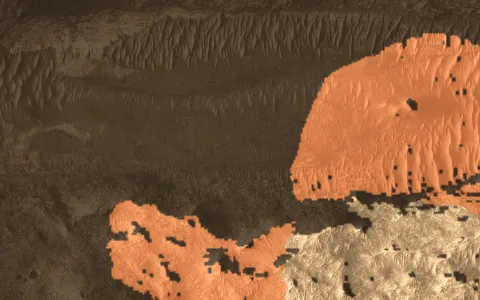
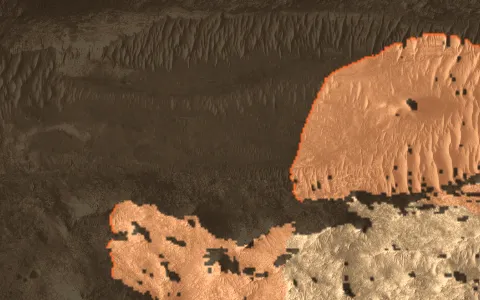
fix(map): say when the shelter is beyond the radiation window, and add the return zone QA screenshots

diff --git a/src/zone/zoneStatus.test.js b/src/zone/zoneStatus.test.js
@@ -1,0 +1,36 @@
+import { afterEach, describe, expect, it } from 'vitest';
+import { setLanguage } from '../i18n/index.js';
+import { zoneStatus } from './zoneStatus.js';
+
+afterEach(() => setLanguage('en'));
+
+const zone = (over = {}) => ({
+  kind: 'plan', events: [], cols: 3, rows: 1, x0: 0, z0: 0, dx: 4, dz: 4, from: { x: 0, z: 0 }, homeSec: new Float32Array([60, 0, 0]),
+  inputs: { o2G: 771, o2UsableG: 771, reserveSec: 1800, evaLimitSec: 1530, elapsedSec: 0, shelterWithinSec: null },
+  stats: { limit: 'eva', reachM: 613 },
+  budget: { availableSec: 1800, reserveSec: 270 },
+  ...over,
+});
+
+describe('zoneStatus', () => {
+  it('names the plan that bounds the zone before the EVA', () => {
+    expect(zoneStatus(zone())).toEqual({
+      head: 'Your plan: 30 min, 15 % time reserve · 30 min O2 reserve · 100 % O2',
+      limit: 'Your planned time sets the edge',
+      reach: 'reach 610 m',
+    });
+  });
+
+  it('says when the radiation window cannot be met from where the crew stands', () => {
+    const rad = { kind: 'live', events: ['radiation'], stats: { limit: 'window', reachM: 0 } };
+    const window = (sec, homeSec) => zoneStatus(zone({ ...rad, homeSec: new Float32Array([homeSec, 0, 0]), inputs: { ...zone().inputs, shelterWithinSec: sec } })).limit;
+    expect(window(14, 60)).toBe('Radiation alert: shelter 60 s away, window 14 s. Walk home now');
+    expect(window(14, Infinity)).toBe('Radiation alert: shelter out of reach in the 14 s window. Walk home now');
+    expect(window(14, 8)).toBe('Radiation alert: shelter within 14 s');
+    expect(window(0, 8)).toBe('Radiation alert: shelter window closed, walk home');
+  });
+
+  it('names the storm re-plan', () => {
+    expect(zoneStatus(zone({ kind: 'live', events: ['dust-storm'], stats: { limit: 'event', reachM: 79 } })).limit).toBe('Dust storm: re-planned home, only the way home stays');
+  });
+});

diff --git a/src/zone/zoneStatus.js b/src/zone/zoneStatus.js
@@ -39,6 +39,8 @@ export function zoneStatus(zone) {
     const left = Math.round(inputs.shelterWithinSec ?? 0);
     const need = homeSecFrom(zone);
     if (left <= 0) limit = t('layers.zone.limit.window.closed', { event: eventName(event) });
+    // the home pass stops at the window, so a walk home past it reads Infinity: out of reach, length unknown
+    else if (need === Infinity) limit = t('layers.zone.limit.window.beyond', { event: eventName(event), sec: left });
     else if (Number.isFinite(need) && need > left) limit = t('layers.zone.limit.window.out', { event: eventName(event), need: shortDuration(need), sec: left });
     else limit = t('layers.zone.limit.window', { event: eventName(event), sec: left });
   } else if (stats.limit === 'event') limit = t('layers.zone.limit.event', { event: eventName(event) });
